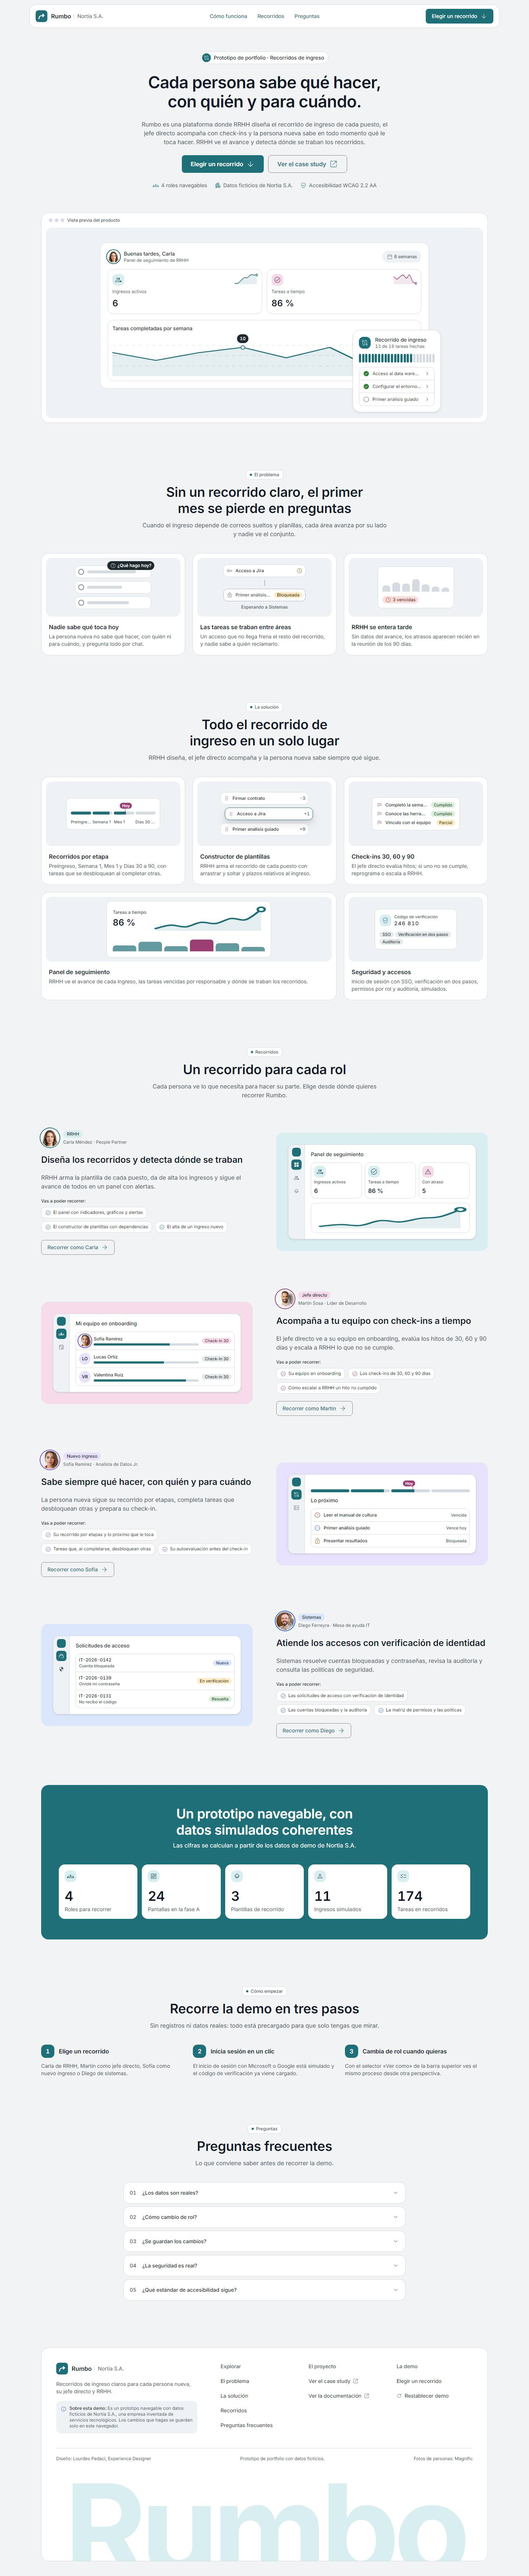
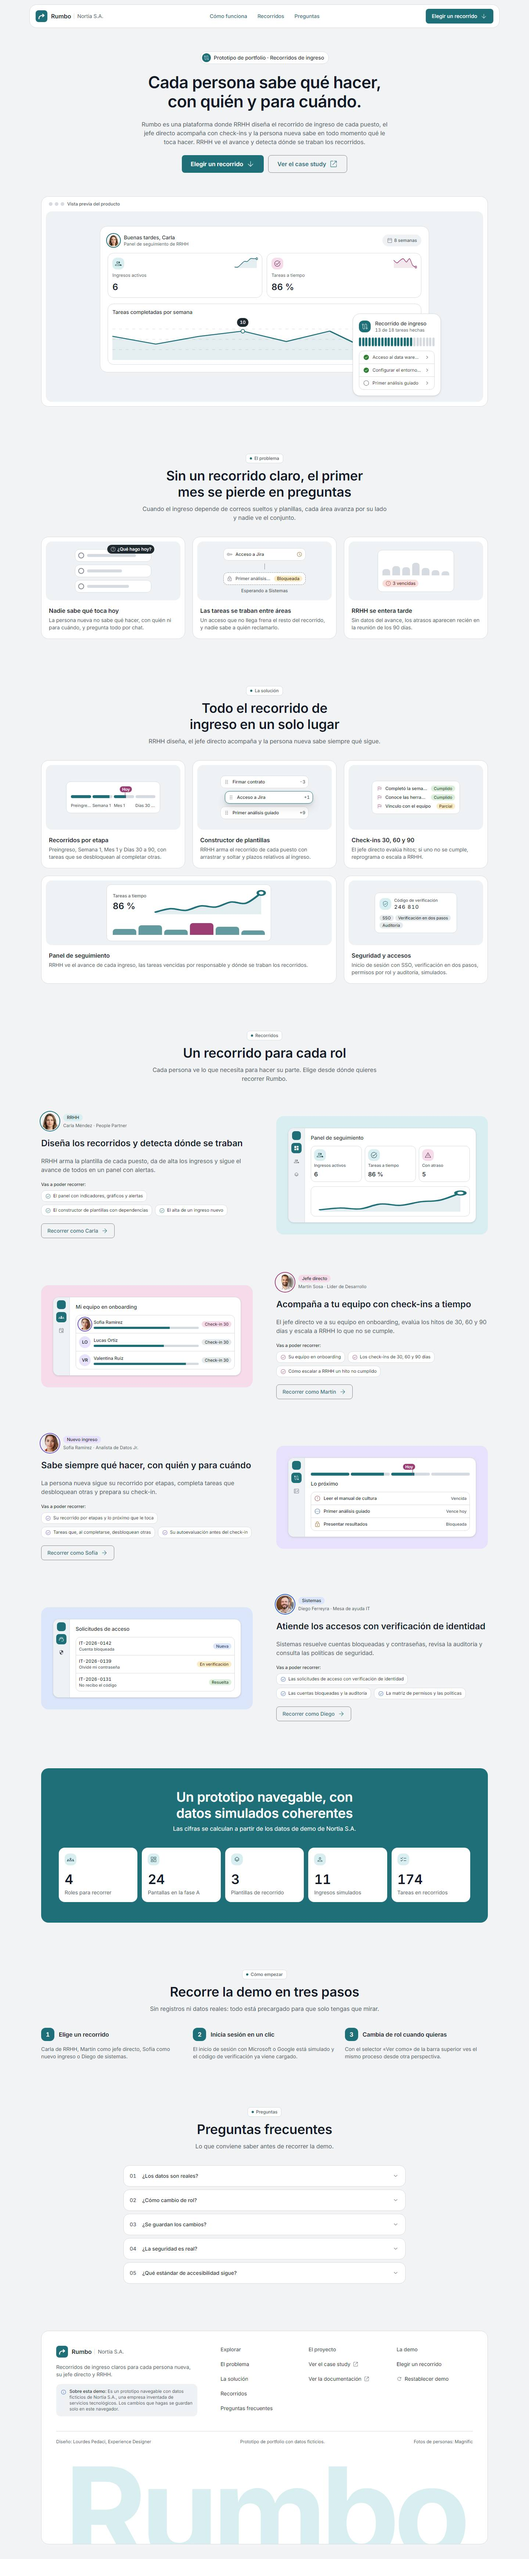
Remove the facts row from the G0 hero

diff --git a/src/features/home/DemoHomePage.tsx b/src/features/home/DemoHomePage.tsx
@@ -5,7 +5,7 @@ import { CASE_STUDY_URL, DOCS_URL } from '@/app/links';
 import { Logo } from '@/components/layout/Logo';
 import { Button } from '@/components/ui/Button';
 import { ConfirmDialog } from '@/components/ui/Dialog';
-import { Icon, type IconName } from '@/components/ui/Icon';
+import { Icon } from '@/components/ui/Icon';
 import { InlineAlert } from '@/components/ui/InlineAlert';
 import { resetDemo } from '@/features/auth/auth-service';
 import { useShouldReduceMotion } from '@/lib/motion';
@@ -19,7 +19,6 @@ import { SolutionSection } from './SolutionSection';
 import { StatsBand } from './StatsBand';
 import { StepsSection } from './StepsSection';
 
-const META_ICONS: IconName[] = ['groups', 'apartment', 'verified_user'];
 const FOOTER_LINK =
   'inline-flex min-h-11 items-center gap-1.5 rounded-sm text-left text-body-medium text-on-surface hover:text-primary hover:underline underline-offset-4 md:min-h-9';
 
@@ -65,7 +64,6 @@ export function DemoHomePage() {
     { label: t('home.nav.journeys'), ref: chooseRef },
     { label: t('home.nav.faq'), ref: faqRef },
   ];
-  const meta = t('home.meta', { returnObjects: true }) as string[];
 
   return (
     <div className="min-h-dvh bg-surface">
@@ -128,14 +126,6 @@ export function DemoHomePage() {
                 </a>
               </Button>
             </div>
-            <ul aria-label={t('home.metaLabel')} className="flex flex-wrap justify-center gap-x-5 gap-y-2">
-              {meta.map((item, i) => (
-                <li key={item} className="inline-flex items-center gap-1.5 text-body-medium text-on-surface-variant">
-                  <Icon name={META_ICONS[i] ?? 'check_circle'} size={18} className="shrink-0 text-primary" />
-                  {item}
-                </li>
-              ))}
-            </ul>
           </div>
 
           {/* The product in a frame: neutral container, no gradient (2.2). Decorative from 768 px. */}

diff --git a/CLAUDE.md b/CLAUDE.md
@@ -428,7 +428,7 @@ La demo para el portfolio y el producto se separan: la pantalla de inicio presen
 - Al elegir una tarjeta se abre el login con ese rol preseleccionado (`/login?demo=carla`, `martin`, `sofia` o `diego`).
 - **Estructura de página de producto B2B** (D-70 y D-71, a partir de dos referencias de Lourdes):
     1. Barra superior flotante con el logo, enlaces a las secciones ("Cómo funciona", "Recorridos", "Preguntas") y la acción principal "Elegir un recorrido".
-    2. Hero centrado: etiqueta, titular, texto, "Elegir un recorrido" y "Ver el case study", los datos de la demo (4 roles, datos ficticios, WCAG 2.2 AA) y el producto dentro de un marco neutro.
+    2. Hero centrado: etiqueta, titular, texto, "Elegir un recorrido" y "Ver el case study", y el producto dentro de un marco neutro.
     3. **El problema:** tres tarjetas con una escena hecha con piezas de Rumbo.
     4. **La solución:** bento de cinco tarjetas (recorridos por etapa, constructor de plantillas, check-ins, panel de seguimiento, seguridad y accesos), cada una con una mini interfaz.
     5. **Un recorrido para cada rol:** una sección por rol que alterna lados desde 1024 px: de un lado la foto, el chip del rol, un título, qué hace, qué se puede recorrer y "Recorrer como…"; del otro, una miniatura de su pantalla dentro de un marco, sobre el contenedor plano del color del rol. Las miniaturas usan los datos de demo cuando se puede.
